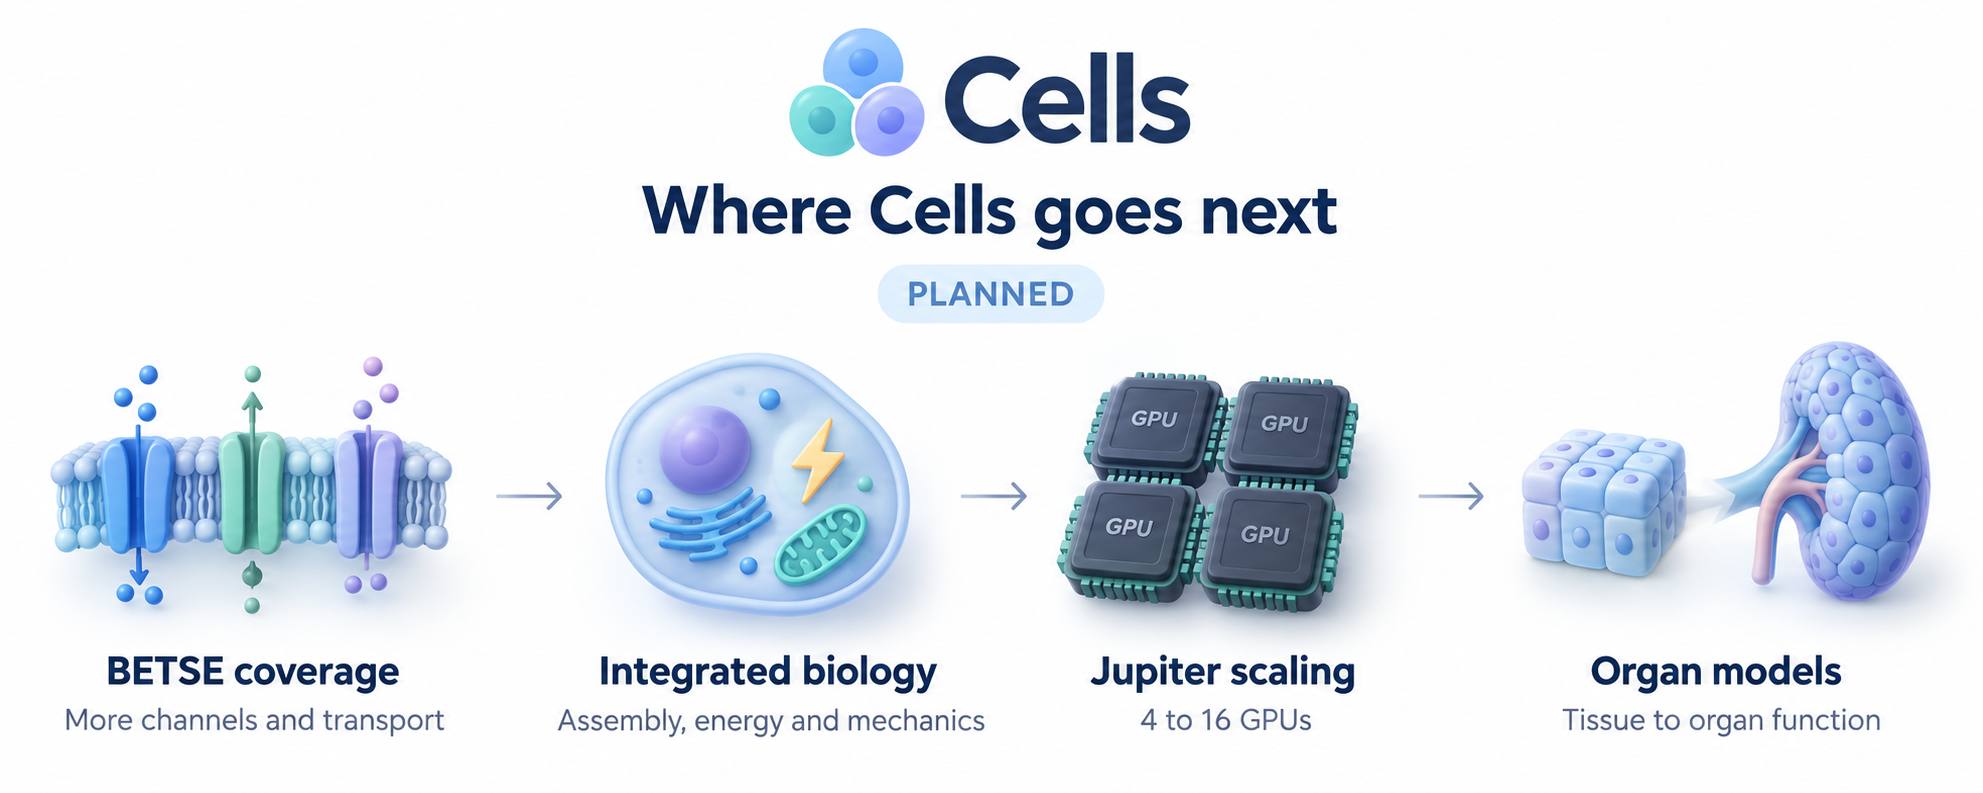
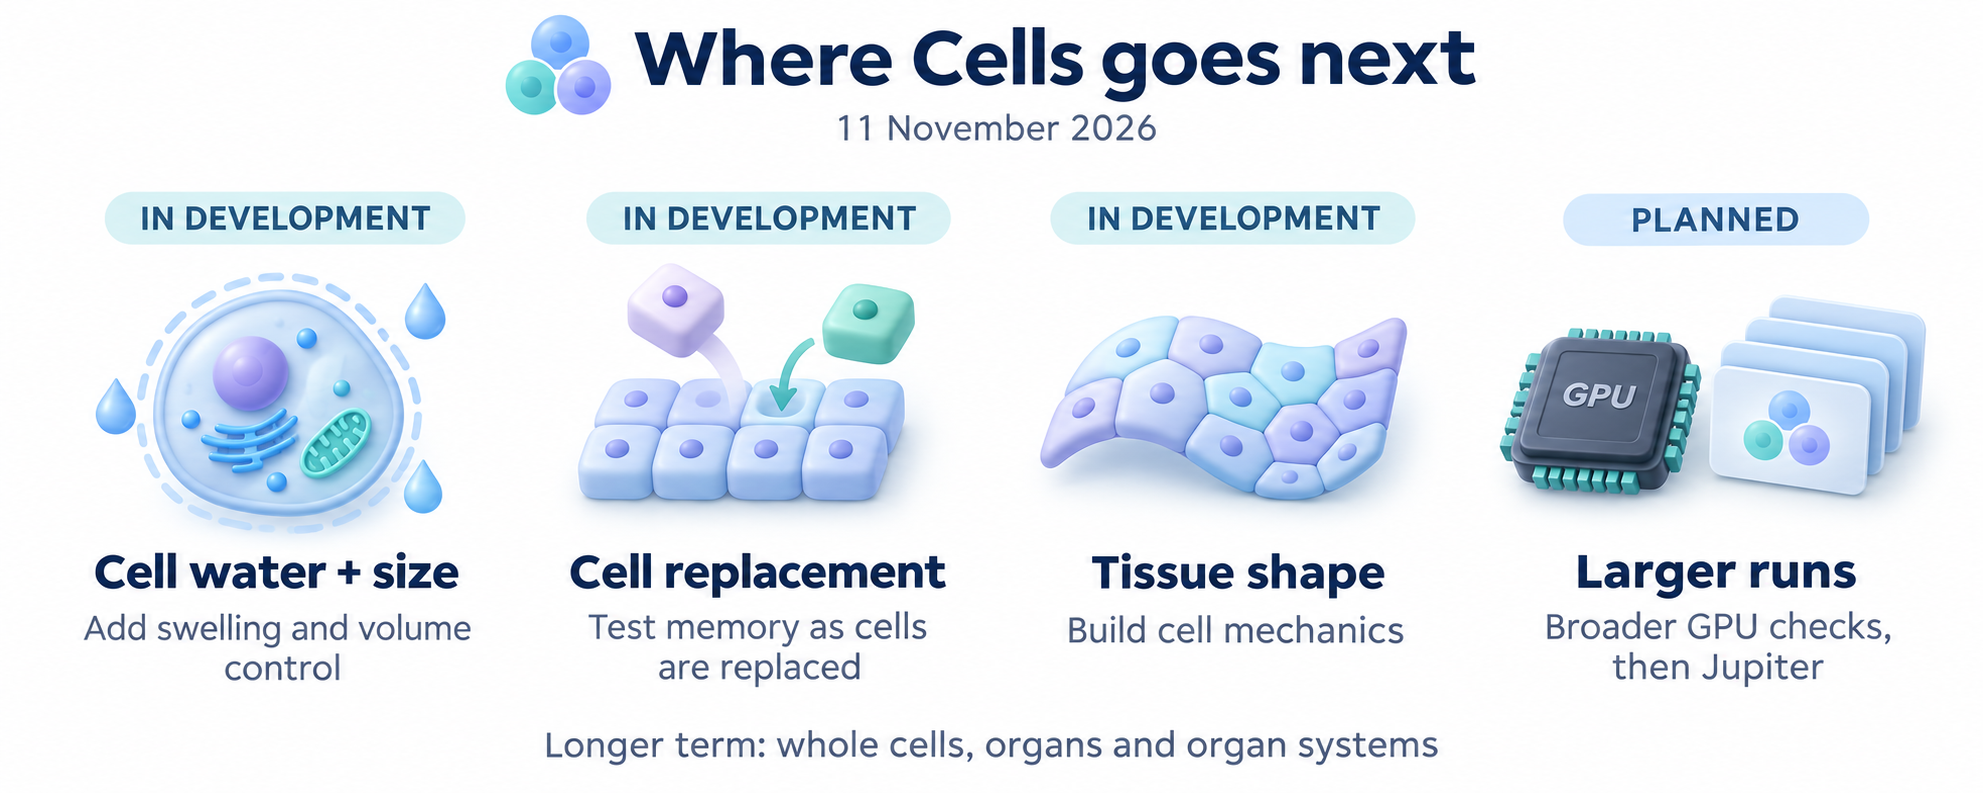
Updated

diff --git a/docs/README.md b/docs/README.md
@@ -195,7 +195,7 @@ for source roles, existing evidence and the path to independent experimental tes
 
 ### Current functionality
 
-![Cells today: bioelectricity, calcium signalling and protein assembly. A shared work queue distributes independent simulations among GPU workers and collects results and checkpoints. CPU and L4 are verified locally; Jupiter qualification is planned.](assets/cells-current.png)
+![Cells today, 11 November 2026: cell electricity, cell signals and protein assembly. Tested cases agree with BETSE, with more checks ahead. In early tests, voltage patterns held for 70 minutes; memory through cell replacement remains unproven. Runs locally on CPU and L4 GPU; Jupiter tests are still ahead.](assets/cells-current.png)
 
 - **Electrical cells and tissues:** ion transport, membrane voltage, pumps,
   channels, gap junctions and extracellular fields in selected model families.
@@ -225,8 +225,8 @@ for source roles, existing evidence and the path to independent experimental tes
   simulation ensembles, with CPU/L4 comparisons and conservation checks.
 
 For GPU ensembles, workers take batches of independent simulations from a shared
-queue and save their results and checkpoints. The four-worker illustration shows
-that execution design. Numerical qualification has used CPUs and one L4; Jupiter
+queue and save their results and checkpoints. Numerical qualification has used
+CPUs and one L4; Jupiter
 execution remains to be qualified. Distributing one interacting tissue across
 multiple GPUs requires further development. See the
 [GPU and ensemble guide](GPU_ENSEMBLES.md).
@@ -246,13 +246,12 @@ hypothesis.
 
 ### Planned
 
-![Planned Cells development: broader BETSE channel and transport coverage; integrated assembly, energy and mechanics; Jupiter scaling from four to sixteen GPUs; and tissue-to-organ models.](assets/cells-future.png)
+![Where Cells goes next, 11 November 2026: cell water and size control, cell replacement and tissue mechanics are in development. Broader GPU checks and Jupiter runs are planned. Whole cells, organs and organ systems are longer-term goals.](assets/cells-future.png)
 
 The next directions are richer integrated cell physiology, broader BETSE/BITSEY
 verification, reproduction of the Forms assays, and Jupiter qualification from
 four to sixteen GPUs. Experimental calibration, broader energy and water
-coupling, mechanics and organ models extend that programme. The organ
-illustration is schematic; it does not select a particular organ to build first.
+coupling, mechanics and organ models extend that programme.
 Detailed scope and priorities are recorded in [Progress](../PROGRESS.md) and the
 [Roadmap](ROADMAP.md).
 

diff --git a/README.md b/README.md
@@ -64,7 +64,7 @@ Plain-language summary. Details, numbers and evidence are in
 
 ## What Cells can do (as of 11 November 2026)
 
-![Cells today: bioelectricity, calcium signalling and protein assembly. A shared work queue distributes independent simulations among GPU workers and collects results and checkpoints. CPU and L4 are verified locally; Jupiter qualification is planned.](docs/assets/cells-current.png)
+![Cells today, 11 November 2026: cell electricity, cell signals and protein assembly. Tested cases agree with BETSE, with more checks ahead. In early tests, voltage patterns held for 70 minutes; memory through cell replacement remains unproven. Runs locally on CPU and L4 GPU; Jupiter tests are still ahead.](docs/assets/cells-current.png)
 
 - **Electrical cells and tissues:**
   - ion transport, membrane voltage and pumps;
